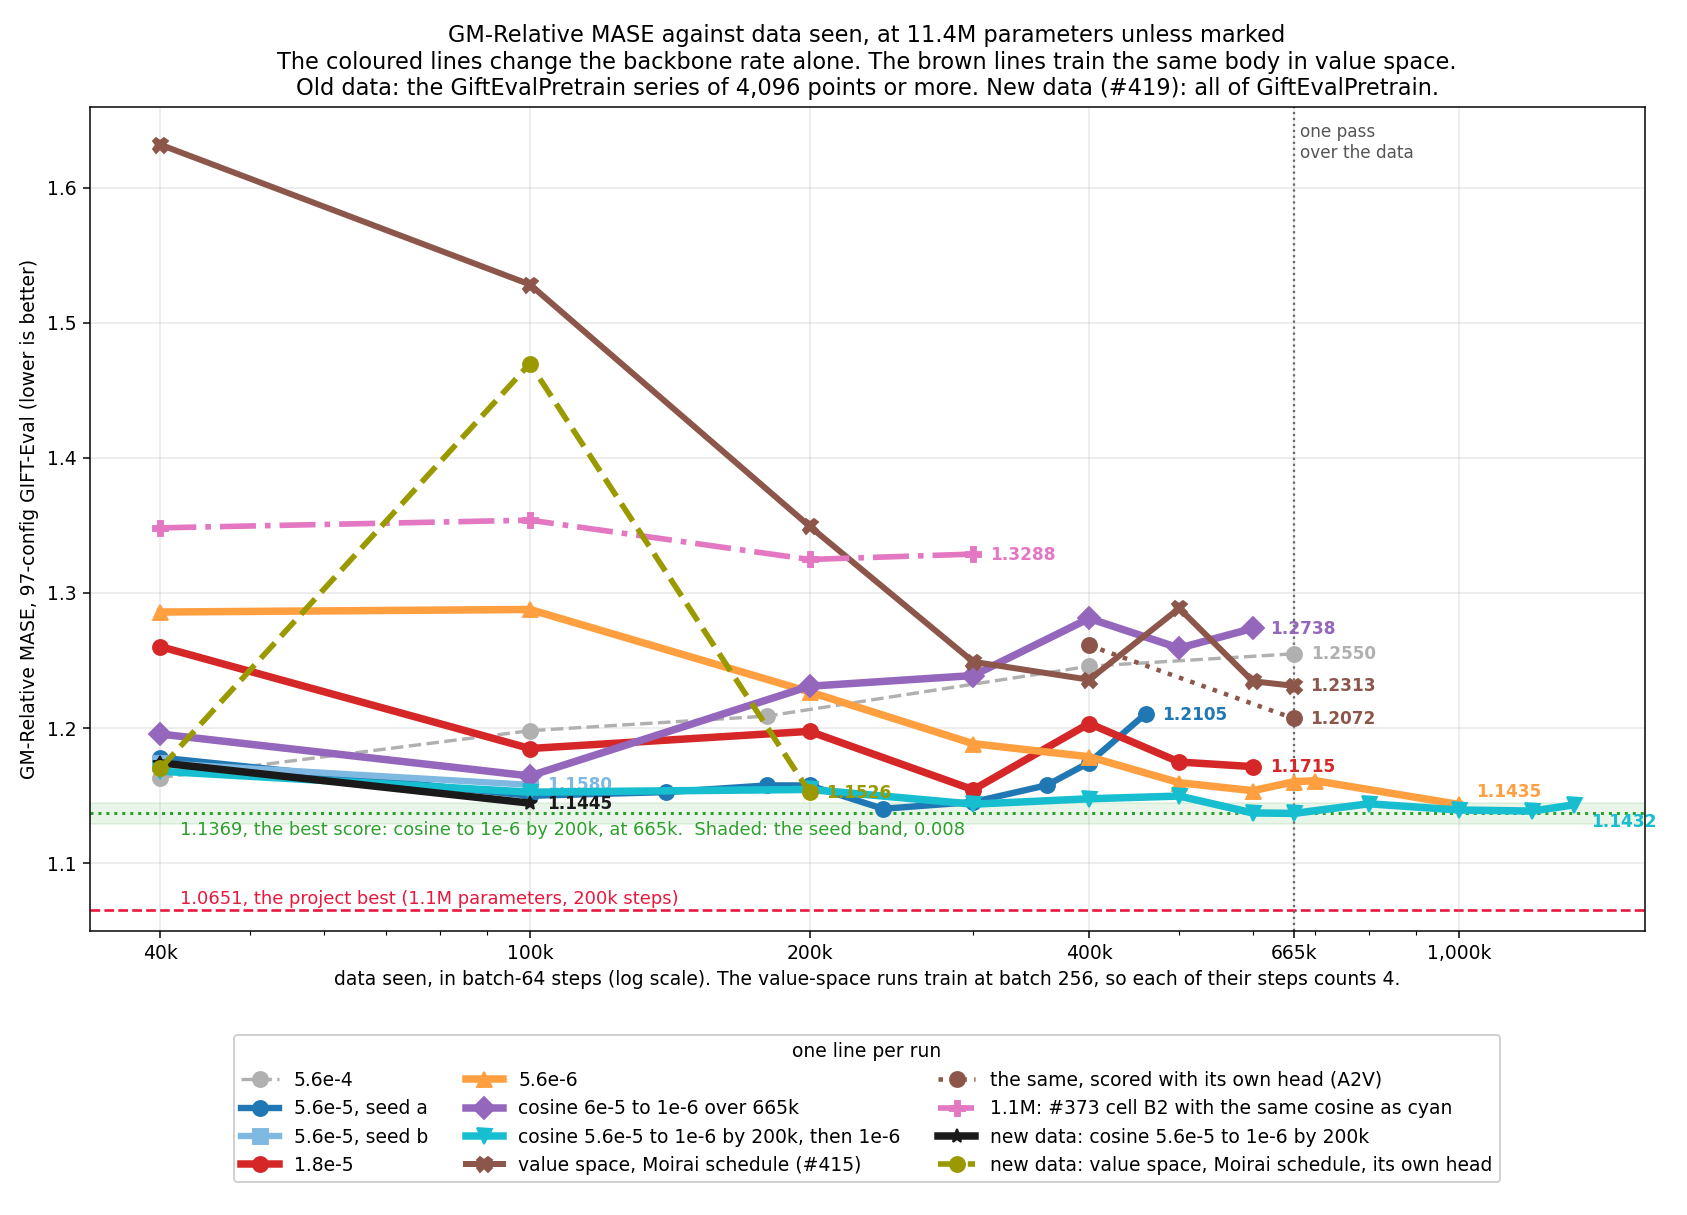
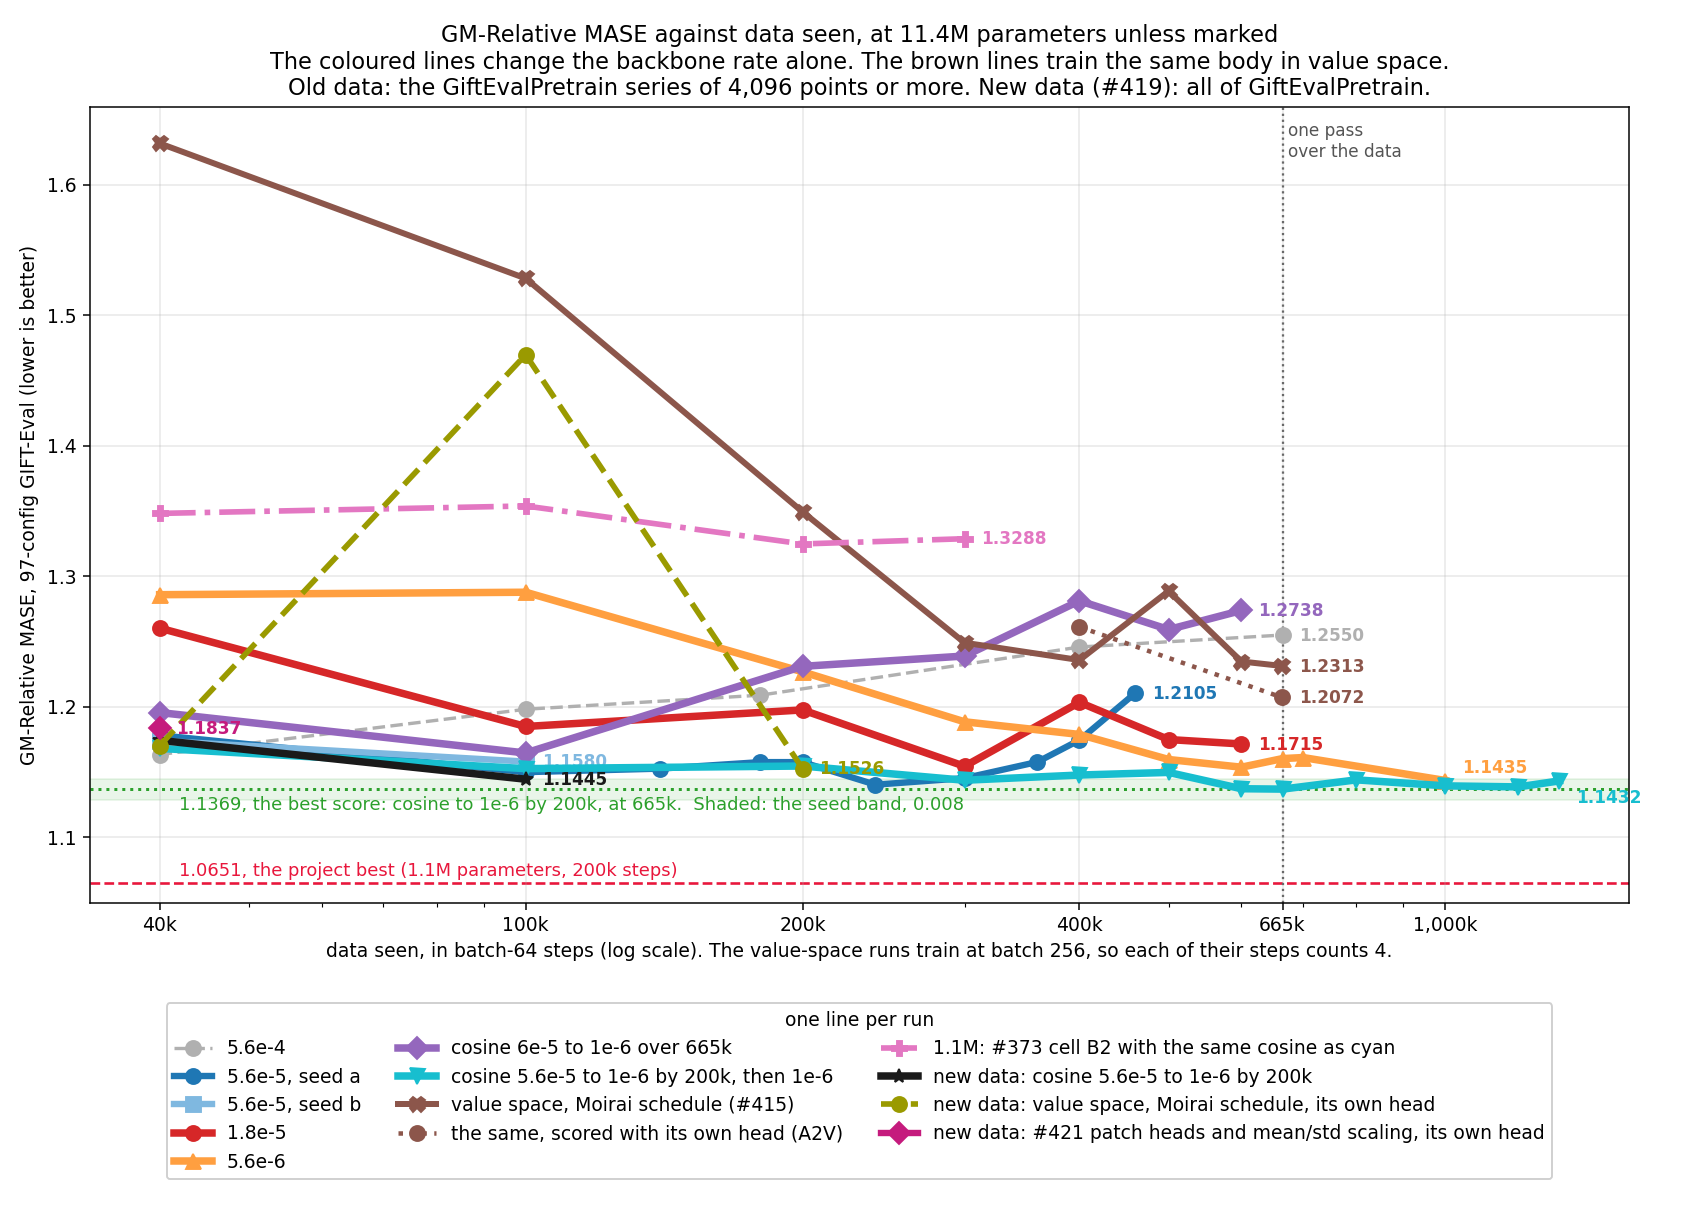
exp(#421): Moirai with one patch head per size and mean/std scaling scores 1.1837 at 10k, native
The #419 Moirai (EWMA, one patch size) scored 1.1702 at 10k on the same
data. The curves show the new run.

diff --git a/reports/2026-09-06_moirai_small_size/scripts/plot_gm_rates.py b/reports/2026-09-06_moirai_small_size/scripts/plot_gm_rates.py
@@ -28,10 +28,12 @@ SERIES = [
     ("b2cos",         "1.1M: #373 cell B2 with the same cosine as cyan", "#e377c2", 3.0, "P", "-."),
     ("cf419_cos200k", "new data: cosine 5.6e-5 to 1e-6 by 200k", "#1a1a1a", 4.0, "*", "-"),
     ("cf419_moirai_native", "new data: value space, Moirai schedule, its own head", "#9a9a00", 3.0, "o", "--"),
+    ("cf421z_moirai_native", "new data: #421 patch heads and mean/std scaling, its own head", "#c51b7d", 3.4, "D", "-"),
 ]
 # The value-space runs train at batch 256: one of their steps holds the data
 # of four batch-64 steps.
-XSCALE = {"cf415_moirai": 4, "cf415_moirai_native": 4, "cf419_moirai_native": 4}
+XSCALE = {"cf415_moirai": 4, "cf415_moirai_native": 4, "cf419_moirai_native": 4,
+          "cf421z_moirai_native": 4}
 # Where the last score of a line prints, so two lines that end together part.
 END_LABEL_OFFSET = {P + "_lr100x": (9, 4), P + "_cos200k": (9, -12)}
 BEST, BAND, PROJECT_BEST = 1.1369, 0.008, 1.0651
